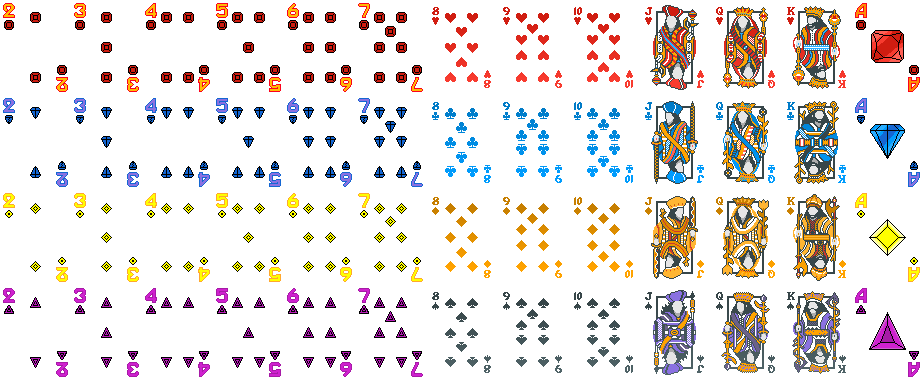
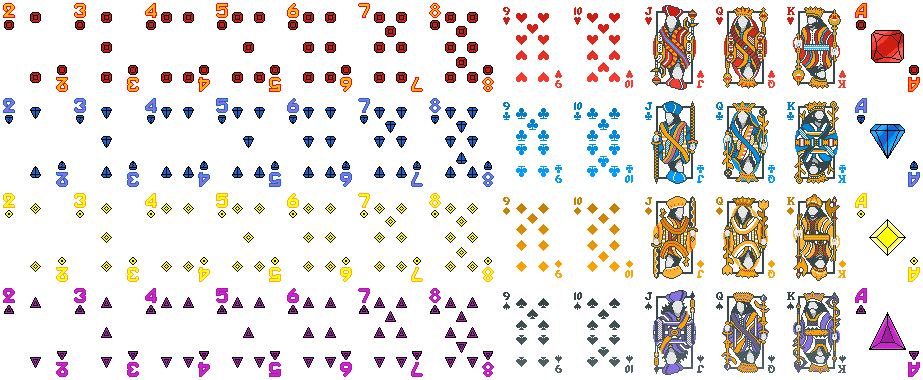
Add 8s

diff --git a/README.md b/README.md
@@ -14,7 +14,7 @@ Bejeweled-themed deck skin for Balatro
 4. If everything's fine, you are all set :D
 
 ## Progress
-![72%](https://progress-bar.xyz/72)
+![81%](https://progress-bar.xyz/81)
 - [x] Ace
 - [x] 2
 - [x] 3
@@ -22,7 +22,7 @@ Bejeweled-themed deck skin for Balatro
 - [x] 5
 - [x] 6
 - [x] 7
-- [ ] 8
+- [x] 8
 - [ ] 9
 - [ ] 10
 - [x] Some enhancements (Wild, Bonus...)
